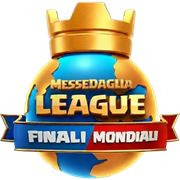
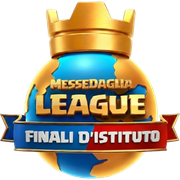
Add files via upload

diff --git a/iscrizioni.html b/iscrizioni.html
@@ -11,7 +11,7 @@
 <meta property="og:title" content="Iscrizioni · Messedaglia League">
 <meta property="og:description" content="Iscriviti alle Finali d'Istituto della Messedaglia League, il torneo di Clash Royale del Liceo Messedaglia. Bastano la mail della scuola e il tuo tag giocatore.">
 <meta property="og:url" content="https://messeleague.github.io/messedaglia-league/iscrizioni.html">
-<meta property="og:image" content="https://messeleague.github.io/messedaglia-league/img/anteprima.jpg">
+<meta property="og:image" content="https://messeleague.github.io/messedaglia-league/img/anteprima-2.jpg">
 <meta property="og:image:width" content="1200">
 <meta property="og:image:height" content="630">
 <meta property="og:image:alt" content="Messedaglia League · Finali d'Istituto">

diff --git a/index.html b/index.html
@@ -11,7 +11,7 @@
 <meta property="og:title" content="Messedaglia League · Finali d'Istituto">
 <meta property="og:description" content="Il torneo di Clash Royale del Liceo Messedaglia: 8 giocatori, uno contro uno, doppia eliminazione e regola del duello. Iscriviti con la mail della scuola.">
 <meta property="og:url" content="https://messeleague.github.io/messedaglia-league/">
-<meta property="og:image" content="https://messeleague.github.io/messedaglia-league/img/anteprima.jpg">
+<meta property="og:image" content="https://messeleague.github.io/messedaglia-league/img/anteprima-2.jpg">
 <meta property="og:image:width" content="1200">
 <meta property="og:image:height" content="630">
 <meta property="og:image:alt" content="Messedaglia League · Finali d'Istituto">
